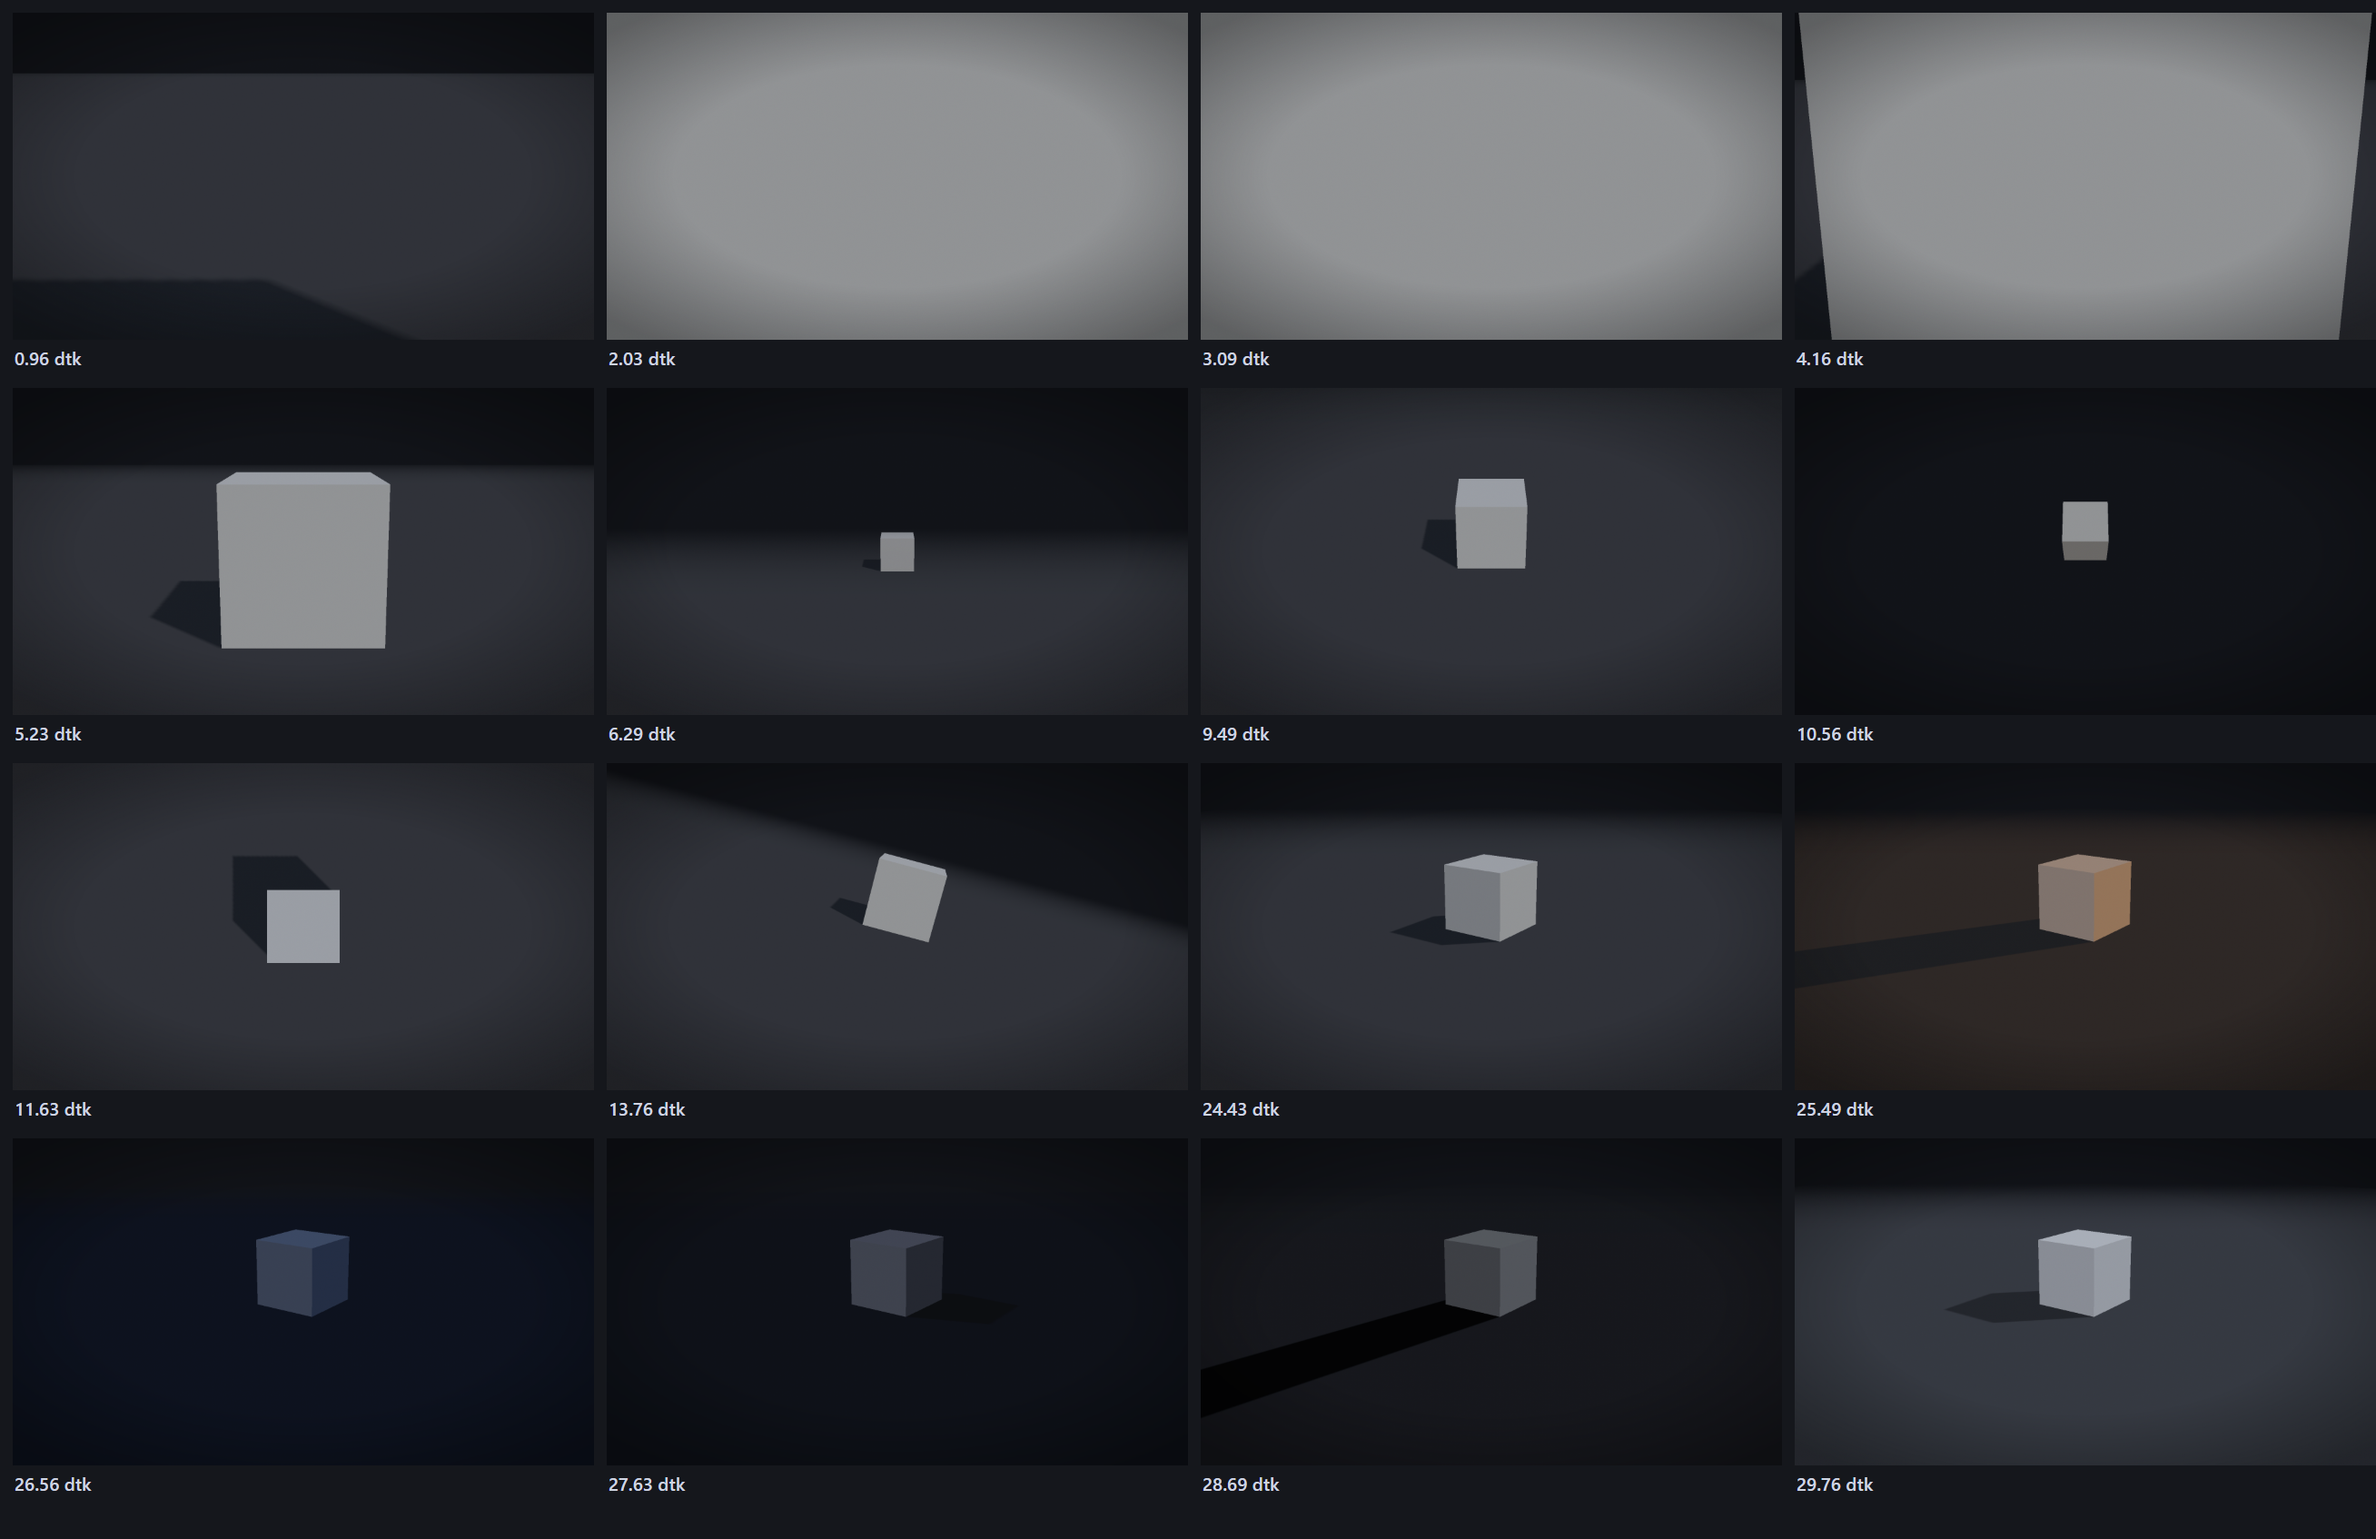
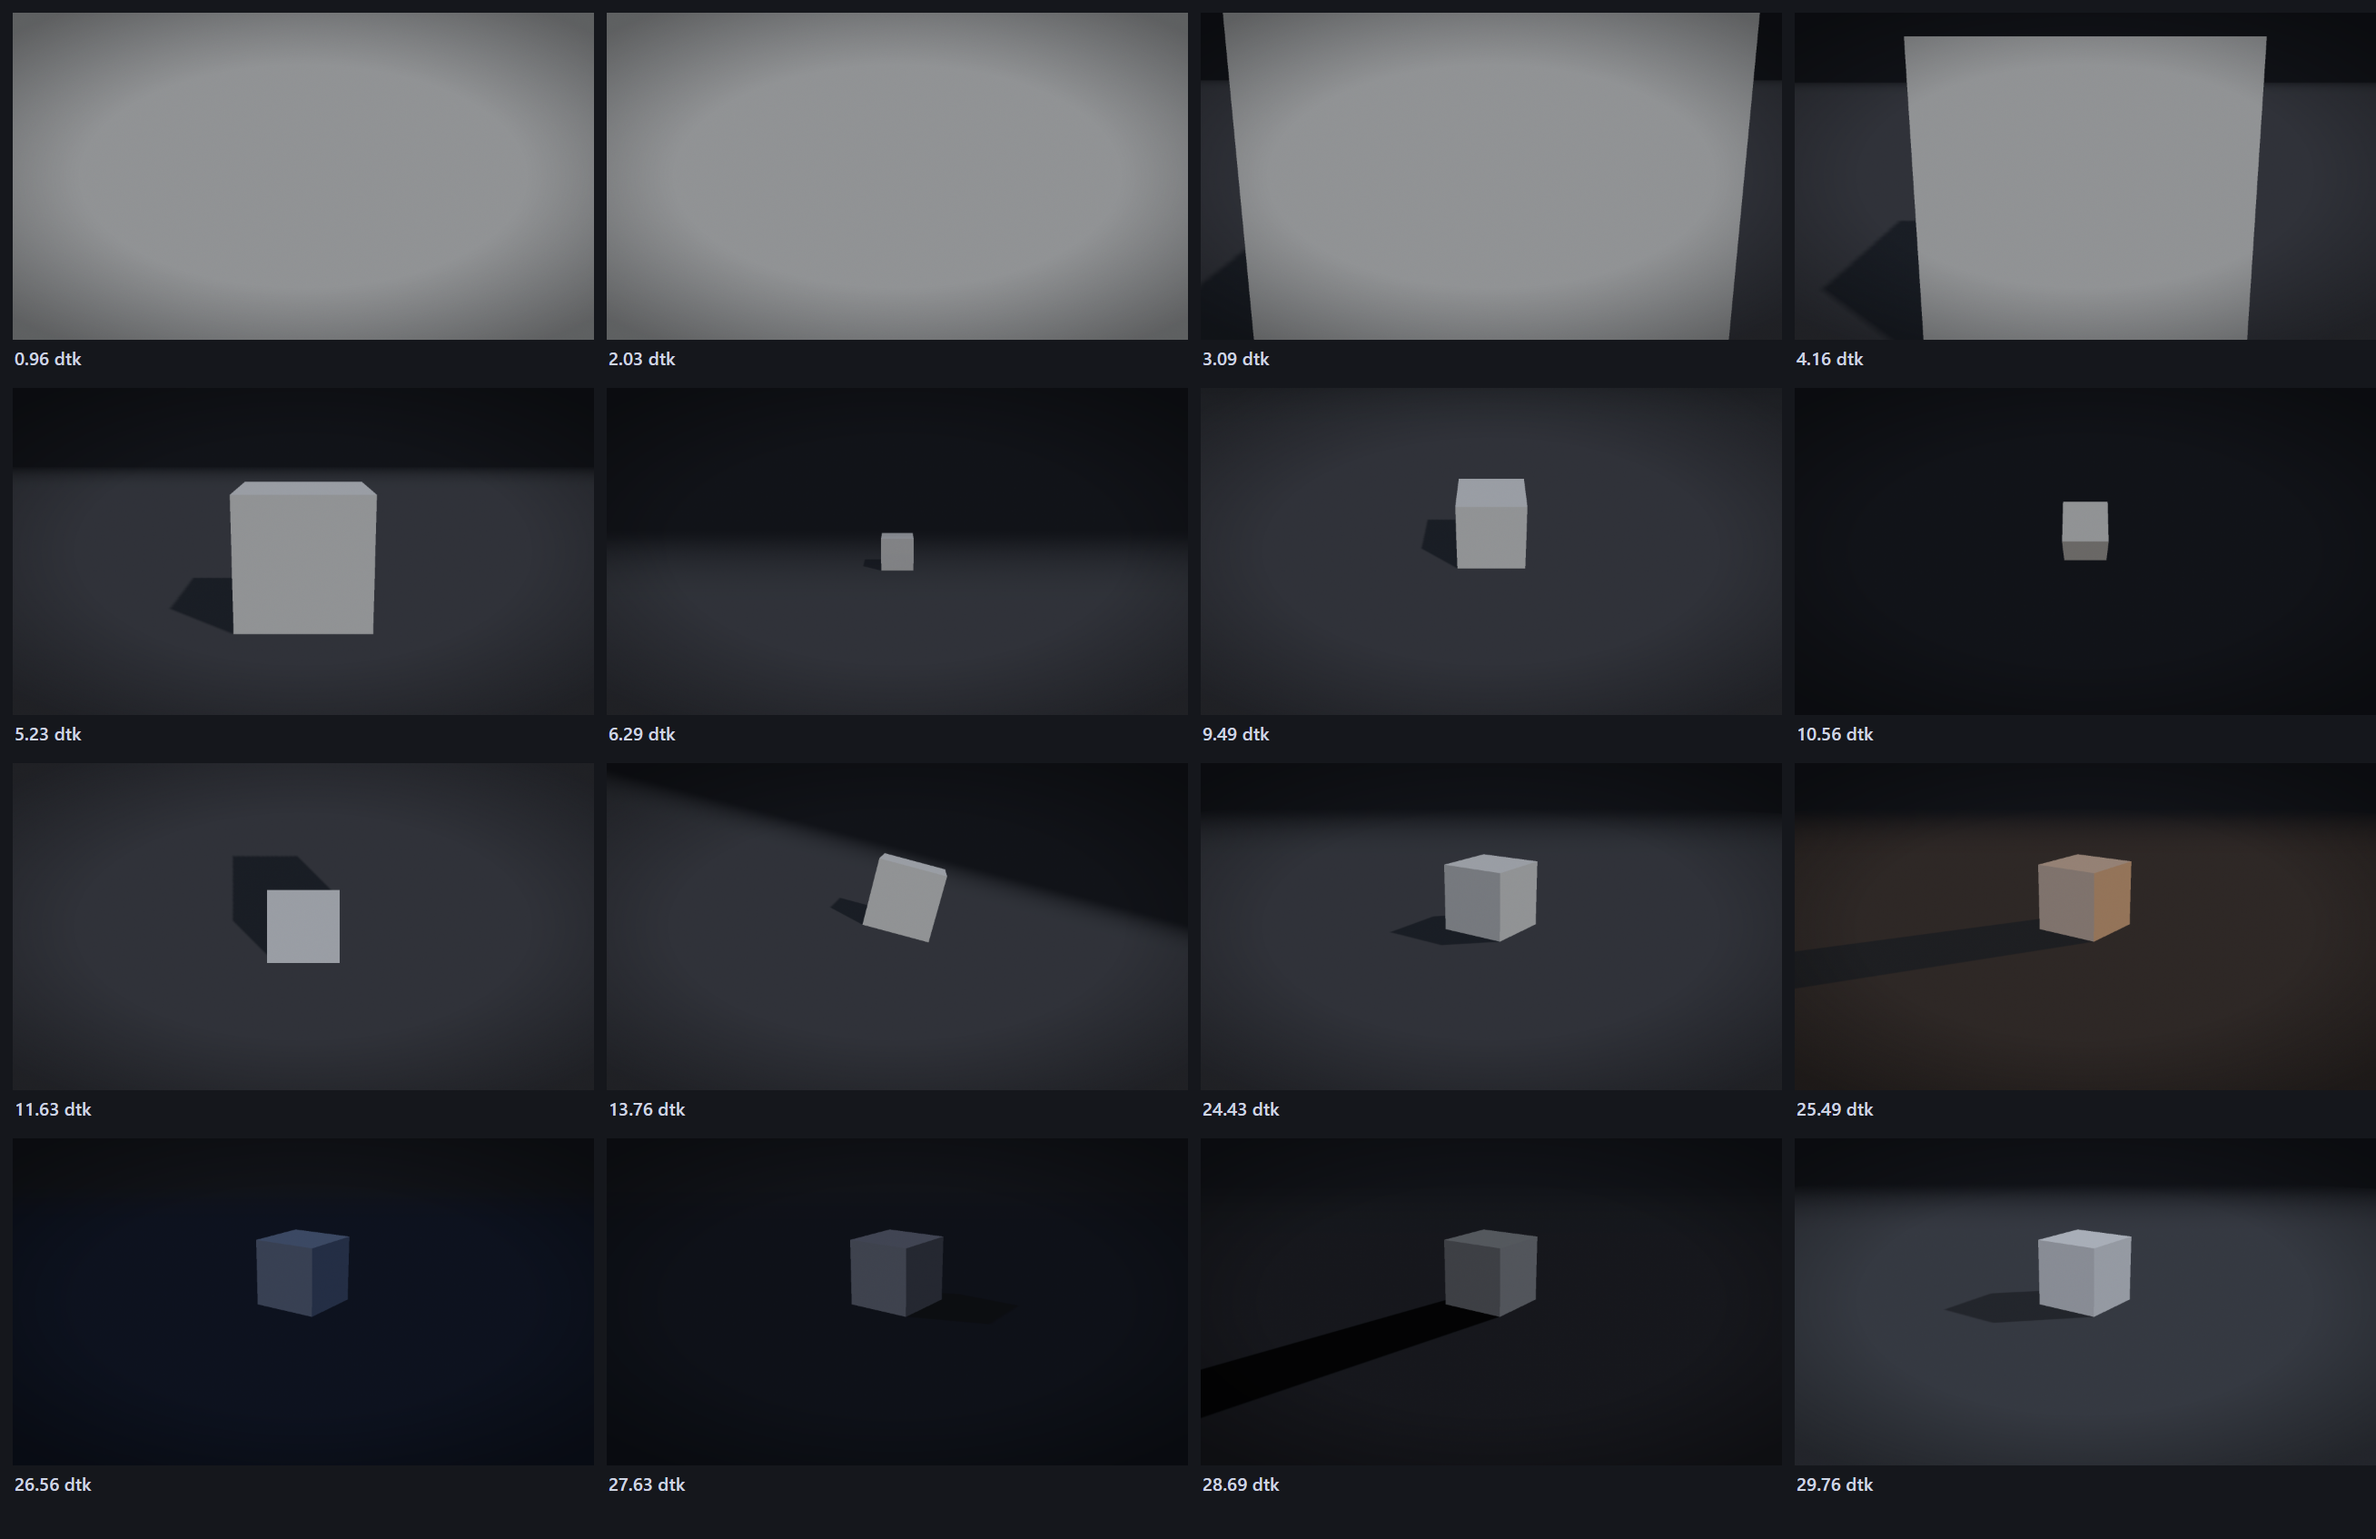
kamera-three: frame3d membingkai permukaan depan subjek (ECU/CU tidak lagi di dalam subjek)

diff --git a/assets/starter-explainer-3d.html b/assets/starter-explainer-3d.html
@@ -269,7 +269,10 @@ const objek3=o=>{if(typeof o==='string'){const n=o;o=scene.getObjectByName(n);if
 const kotak3=o=>{const b=new THREE.Box3().setFromObject(o);if(b.isEmpty())throw new Error('shot: subjek 3D kosong — '+(o.name||o.type));return b;};
 /* shot() di inti memanggil ini: fokus = pusat Box3, jarak dari tinggi/lebar kotak pada lensa RENCANA */
 CAM.frame3d=(fill,o)=>{const b=kotak3(objek3(o)),c=b.getCenter(new THREE.Vector3()),s=b.getSize(new THREE.Vector3());
-  return{fx:c.x,fy:c.y,fz:c.z,dist:jarakBingkai(s.y,s.x,fill,PLAN.mm)};};
+  /* jarakBingkai = jarak ke bidang yang mengisi frame; bidang itu adalah permukaan DEPAN subjek, bukan pusatnya:
+     tambah setengah rentang kotak searah pandang (bidang tanpa kedalaman = 0, tidak berubah) */
+  const v=pose({fx:0,fy:0,fz:0,dist:1,yaw:PLAN.yaw,pitch:PLAN.pitch}),dalam=(Math.abs(v.x)*s.x+Math.abs(v.y)*s.y+Math.abs(v.z)*s.z)/2;
+  return{fx:c.x,fy:c.y,fz:c.z,dist:jarakBingkai(s.y,s.x,fill,PLAN.mm)+dalam};};
 /* ZONA AMAN HUD 3D: proyeksikan 8 sudut kotak subjek dari pose AKHIR shot ke piksel panggung, bandingkan
    dengan kotak elemen HUD di #stage. Sudut di belakang kamera = subjek menelan frame. */
 CAM.cek3=(at,dur,o,v)=>{const hs=HUD.filter(h=>!(at+dur<h.at||at>h.to));if(!hs.length)return;
@@ -360,7 +363,8 @@ window.CAM3_UJI=()=>{const r={},c0={...CAM},V=()=>new THREE.Vector3();tl.pause(0
   const p=pose(CAM);r.poseCocok=camera.position.distanceTo(new THREE.Vector3(p.x,p.y,p.z))<1e-6;
   const n=kotak3(objek3('subjek')).getCenter(V()).project(camera);r.ndc=[n.x,n.y];
   const bid=new THREE.Mesh(new THREE.PlaneGeometry(1.6,1.6));scene.add(bid);   // datar: tanpa distorsi perspektif kedalaman
-  Object.assign(CAM,{yaw:0,pitch:0},CAM.frame3d(SHOT.WS,bid));applyCam();camera.updateMatrixWorld();
+  {const py=PLAN.yaw,pp=PLAN.pitch;PLAN.yaw=PLAN.pitch=0;Object.assign(CAM,{yaw:0,pitch:0},CAM.frame3d(SHOT.WS,bid));PLAN.yaw=py;PLAN.pitch=pp;}   // frame3d membaca sudut dari PLAN
+  applyCam();camera.updateMatrixWorld();
   const y=v=>new THREE.Vector3(0,v,0).project(camera).y;r.isiTinggi=(y(.8)-y(-.8))/2;scene.remove(bid);bid.geometry.dispose();
   hud.reserve('#hud .lbl',0,99);
   try{shot(0,.1,'CU','subjek');r.hudTabrakDitolak=false;}catch(e){r.hudTabrakDitolak=/zona aman/.test(e.message);}HUD.pop();
@@ -384,6 +388,9 @@ window.CAM3_UJI=()=>{const r={},c0={...CAM},V=()=>new THREE.Vector3();tl.pause(0
   tl.time(tA+2+1e-3);applyCam();r.railSambung=camera.position.distanceTo(V().set(10,4,0));
   const nR2=RAILS.length;try{rail(planAt-1,2,pts);r.railUrutDitolak=false;}catch(e){r.railUrutDitolak=/urut waktu/.test(e.message)&&RAILS.length===nR2;}
   tl.time(0);for(const w of tws){w.kill();tl.remove(w);}RAILS.length=nR;Object.assign(PLAN,P1);planAt=pa1;
+  {const h=[];for(const k of ['ECU','CU']){Object.assign(CAM,{yaw:30,pitch:-15,roll:0,shake:0,zoom:1,mm:PLAN.mm,rail:-1},CAM.frame3d(SHOT[k],'subjek'));applyCam();camera.updateMatrixWorld();
+    const bx=kotak3(objek3('subjek')),n=bx.getCenter(V()).project(camera);h.push({k,dalam:bx.containsPoint(camera.position),ndc:[n.x,n.y]});}
+   r.dekatDiLuar={hasil:h,ok:h.every(e=>!e.dalam&&Math.abs(e.ndc[0])<.05&&Math.abs(e.ndc[1])<.05)};}
   /* lowkey harus tampak lowkey: dari pose 3/4 (cahaya samping) lantai & sisi membelakangi key jauh lebih gelap daripada day */
   {const L1={...LUX},lum=()=>{const gl=renderer.getContext(),o=[];   // piksel layar (dari atas): lantai kanan-bawah, sisi kubus kiri (= -x, membelakangi key az 80)
     for(const [x,y] of [[1750,850],[800,600]]){const px=new Uint8Array(4);gl.readPixels(x,H-y,1,1,gl.RGBA,gl.UNSIGNED_BYTE,px);o.push(px[0]+px[1]+px[2]);}return o;};

diff --git a/src/runtime/kamera-three.js b/src/runtime/kamera-three.js
@@ -32,7 +32,10 @@ const objek3=o=>{if(typeof o==='string'){const n=o;o=scene.getObjectByName(n);if
 const kotak3=o=>{const b=new THREE.Box3().setFromObject(o);if(b.isEmpty())throw new Error('shot: subjek 3D kosong — '+(o.name||o.type));return b;};
 /* shot() di inti memanggil ini: fokus = pusat Box3, jarak dari tinggi/lebar kotak pada lensa RENCANA */
 CAM.frame3d=(fill,o)=>{const b=kotak3(objek3(o)),c=b.getCenter(new THREE.Vector3()),s=b.getSize(new THREE.Vector3());
-  return{fx:c.x,fy:c.y,fz:c.z,dist:jarakBingkai(s.y,s.x,fill,PLAN.mm)};};
+  /* jarakBingkai = jarak ke bidang yang mengisi frame; bidang itu adalah permukaan DEPAN subjek, bukan pusatnya:
+     tambah setengah rentang kotak searah pandang (bidang tanpa kedalaman = 0, tidak berubah) */
+  const v=pose({fx:0,fy:0,fz:0,dist:1,yaw:PLAN.yaw,pitch:PLAN.pitch}),dalam=(Math.abs(v.x)*s.x+Math.abs(v.y)*s.y+Math.abs(v.z)*s.z)/2;
+  return{fx:c.x,fy:c.y,fz:c.z,dist:jarakBingkai(s.y,s.x,fill,PLAN.mm)+dalam};};
 /* ZONA AMAN HUD 3D: proyeksikan 8 sudut kotak subjek dari pose AKHIR shot ke piksel panggung, bandingkan
    dengan kotak elemen HUD di #stage. Sudut di belakang kamera = subjek menelan frame. */
 CAM.cek3=(at,dur,o,v)=>{const hs=HUD.filter(h=>!(at+dur<h.at||at>h.to));if(!hs.length)return;
@@ -123,7 +126,8 @@ window.CAM3_UJI=()=>{const r={},c0={...CAM},V=()=>new THREE.Vector3();tl.pause(0
   const p=pose(CAM);r.poseCocok=camera.position.distanceTo(new THREE.Vector3(p.x,p.y,p.z))<1e-6;
   const n=kotak3(objek3('subjek')).getCenter(V()).project(camera);r.ndc=[n.x,n.y];
   const bid=new THREE.Mesh(new THREE.PlaneGeometry(1.6,1.6));scene.add(bid);   // datar: tanpa distorsi perspektif kedalaman
-  Object.assign(CAM,{yaw:0,pitch:0},CAM.frame3d(SHOT.WS,bid));applyCam();camera.updateMatrixWorld();
+  {const py=PLAN.yaw,pp=PLAN.pitch;PLAN.yaw=PLAN.pitch=0;Object.assign(CAM,{yaw:0,pitch:0},CAM.frame3d(SHOT.WS,bid));PLAN.yaw=py;PLAN.pitch=pp;}   // frame3d membaca sudut dari PLAN
+  applyCam();camera.updateMatrixWorld();
   const y=v=>new THREE.Vector3(0,v,0).project(camera).y;r.isiTinggi=(y(.8)-y(-.8))/2;scene.remove(bid);bid.geometry.dispose();
   hud.reserve('#hud .lbl',0,99);
   try{shot(0,.1,'CU','subjek');r.hudTabrakDitolak=false;}catch(e){r.hudTabrakDitolak=/zona aman/.test(e.message);}HUD.pop();
@@ -147,6 +151,9 @@ window.CAM3_UJI=()=>{const r={},c0={...CAM},V=()=>new THREE.Vector3();tl.pause(0
   tl.time(tA+2+1e-3);applyCam();r.railSambung=camera.position.distanceTo(V().set(10,4,0));
   const nR2=RAILS.length;try{rail(planAt-1,2,pts);r.railUrutDitolak=false;}catch(e){r.railUrutDitolak=/urut waktu/.test(e.message)&&RAILS.length===nR2;}
   tl.time(0);for(const w of tws){w.kill();tl.remove(w);}RAILS.length=nR;Object.assign(PLAN,P1);planAt=pa1;
+  {const h=[];for(const k of ['ECU','CU']){Object.assign(CAM,{yaw:30,pitch:-15,roll:0,shake:0,zoom:1,mm:PLAN.mm,rail:-1},CAM.frame3d(SHOT[k],'subjek'));applyCam();camera.updateMatrixWorld();
+    const bx=kotak3(objek3('subjek')),n=bx.getCenter(V()).project(camera);h.push({k,dalam:bx.containsPoint(camera.position),ndc:[n.x,n.y]});}
+   r.dekatDiLuar={hasil:h,ok:h.every(e=>!e.dalam&&Math.abs(e.ndc[0])<.05&&Math.abs(e.ndc[1])<.05)};}
   /* lowkey harus tampak lowkey: dari pose 3/4 (cahaya samping) lantai & sisi membelakangi key jauh lebih gelap daripada day */
   {const L1={...LUX},lum=()=>{const gl=renderer.getContext(),o=[];   // piksel layar (dari atas): lantai kanan-bawah, sisi kubus kiri (= -x, membelakangi key az 80)
     for(const [x,y] of [[1750,850],[800,600]]){const px=new Uint8Array(4);gl.readPixels(x,H-y,1,1,gl.RGBA,gl.UNSIGNED_BYTE,px);o.push(px[0]+px[1]+px[2]);}return o;};
